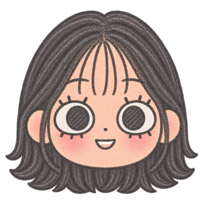
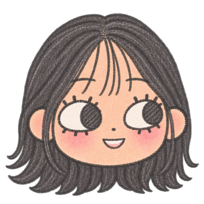
Retain the original characters’ gaze in front-facing portraits

Changed region(s): [[0.0294, 0.0294, 0.9706, 0.9706], [0.1765, 0.4412, 0.2059, 0.4706]]

diff --git a/data.js b/data.js
@@ -13,8 +13,8 @@ window.TRIPS = [
   {
     id: 'tokyo-demo', year: 2026, country: 'Japan', countryCode: 'JPN', city: 'Tokyo',
     characters: [
-      {name: 'Zoe', image: 'assets/zoe-traveler.png', portrait: 'assets/zoe-portrait.png?v=2', walkCycle: 'assets/zoe-walk-cycle.png', tastingImage: 'assets/zoe-tasting.png'},
-      {name: 'her travel companion', image: 'assets/travel-companion.png', portrait: 'assets/companion-portrait.png?v=2', walkCycle: 'assets/companion-walk-cycle.png', tastingImage: 'assets/companion-tasting.png'}
+      {name: 'Zoe', image: 'assets/zoe-traveler.png', portrait: 'assets/zoe-portrait.png?v=3', walkCycle: 'assets/zoe-walk-cycle.png', tastingImage: 'assets/zoe-tasting.png'},
+      {name: 'her travel companion', image: 'assets/travel-companion.png', portrait: 'assets/companion-portrait.png?v=3', walkCycle: 'assets/companion-walk-cycle.png', tastingImage: 'assets/companion-tasting.png'}
     ],
     month: 'September', start: '2026-09-25', end: '2026-09-28', accent: 'lavender', cover: '',
     days: [

diff --git a/index.html b/index.html
@@ -11,7 +11,7 @@
   <link rel="preconnect" href="https://fonts.gstatic.com" crossorigin>
   <link href="https://fonts.googleapis.com/css2?family=Patrick+Hand&display=swap" rel="stylesheet">
   <link rel="stylesheet" href="styles.css?v=7">
-  <script defer src="data.js?v=8"></script>
+  <script defer src="data.js?v=9"></script>
   <script defer src="assets/world.js"></script>
   <script defer src="journey.js?v=6"></script>
   <script defer src="app.js?v=7"></script>
